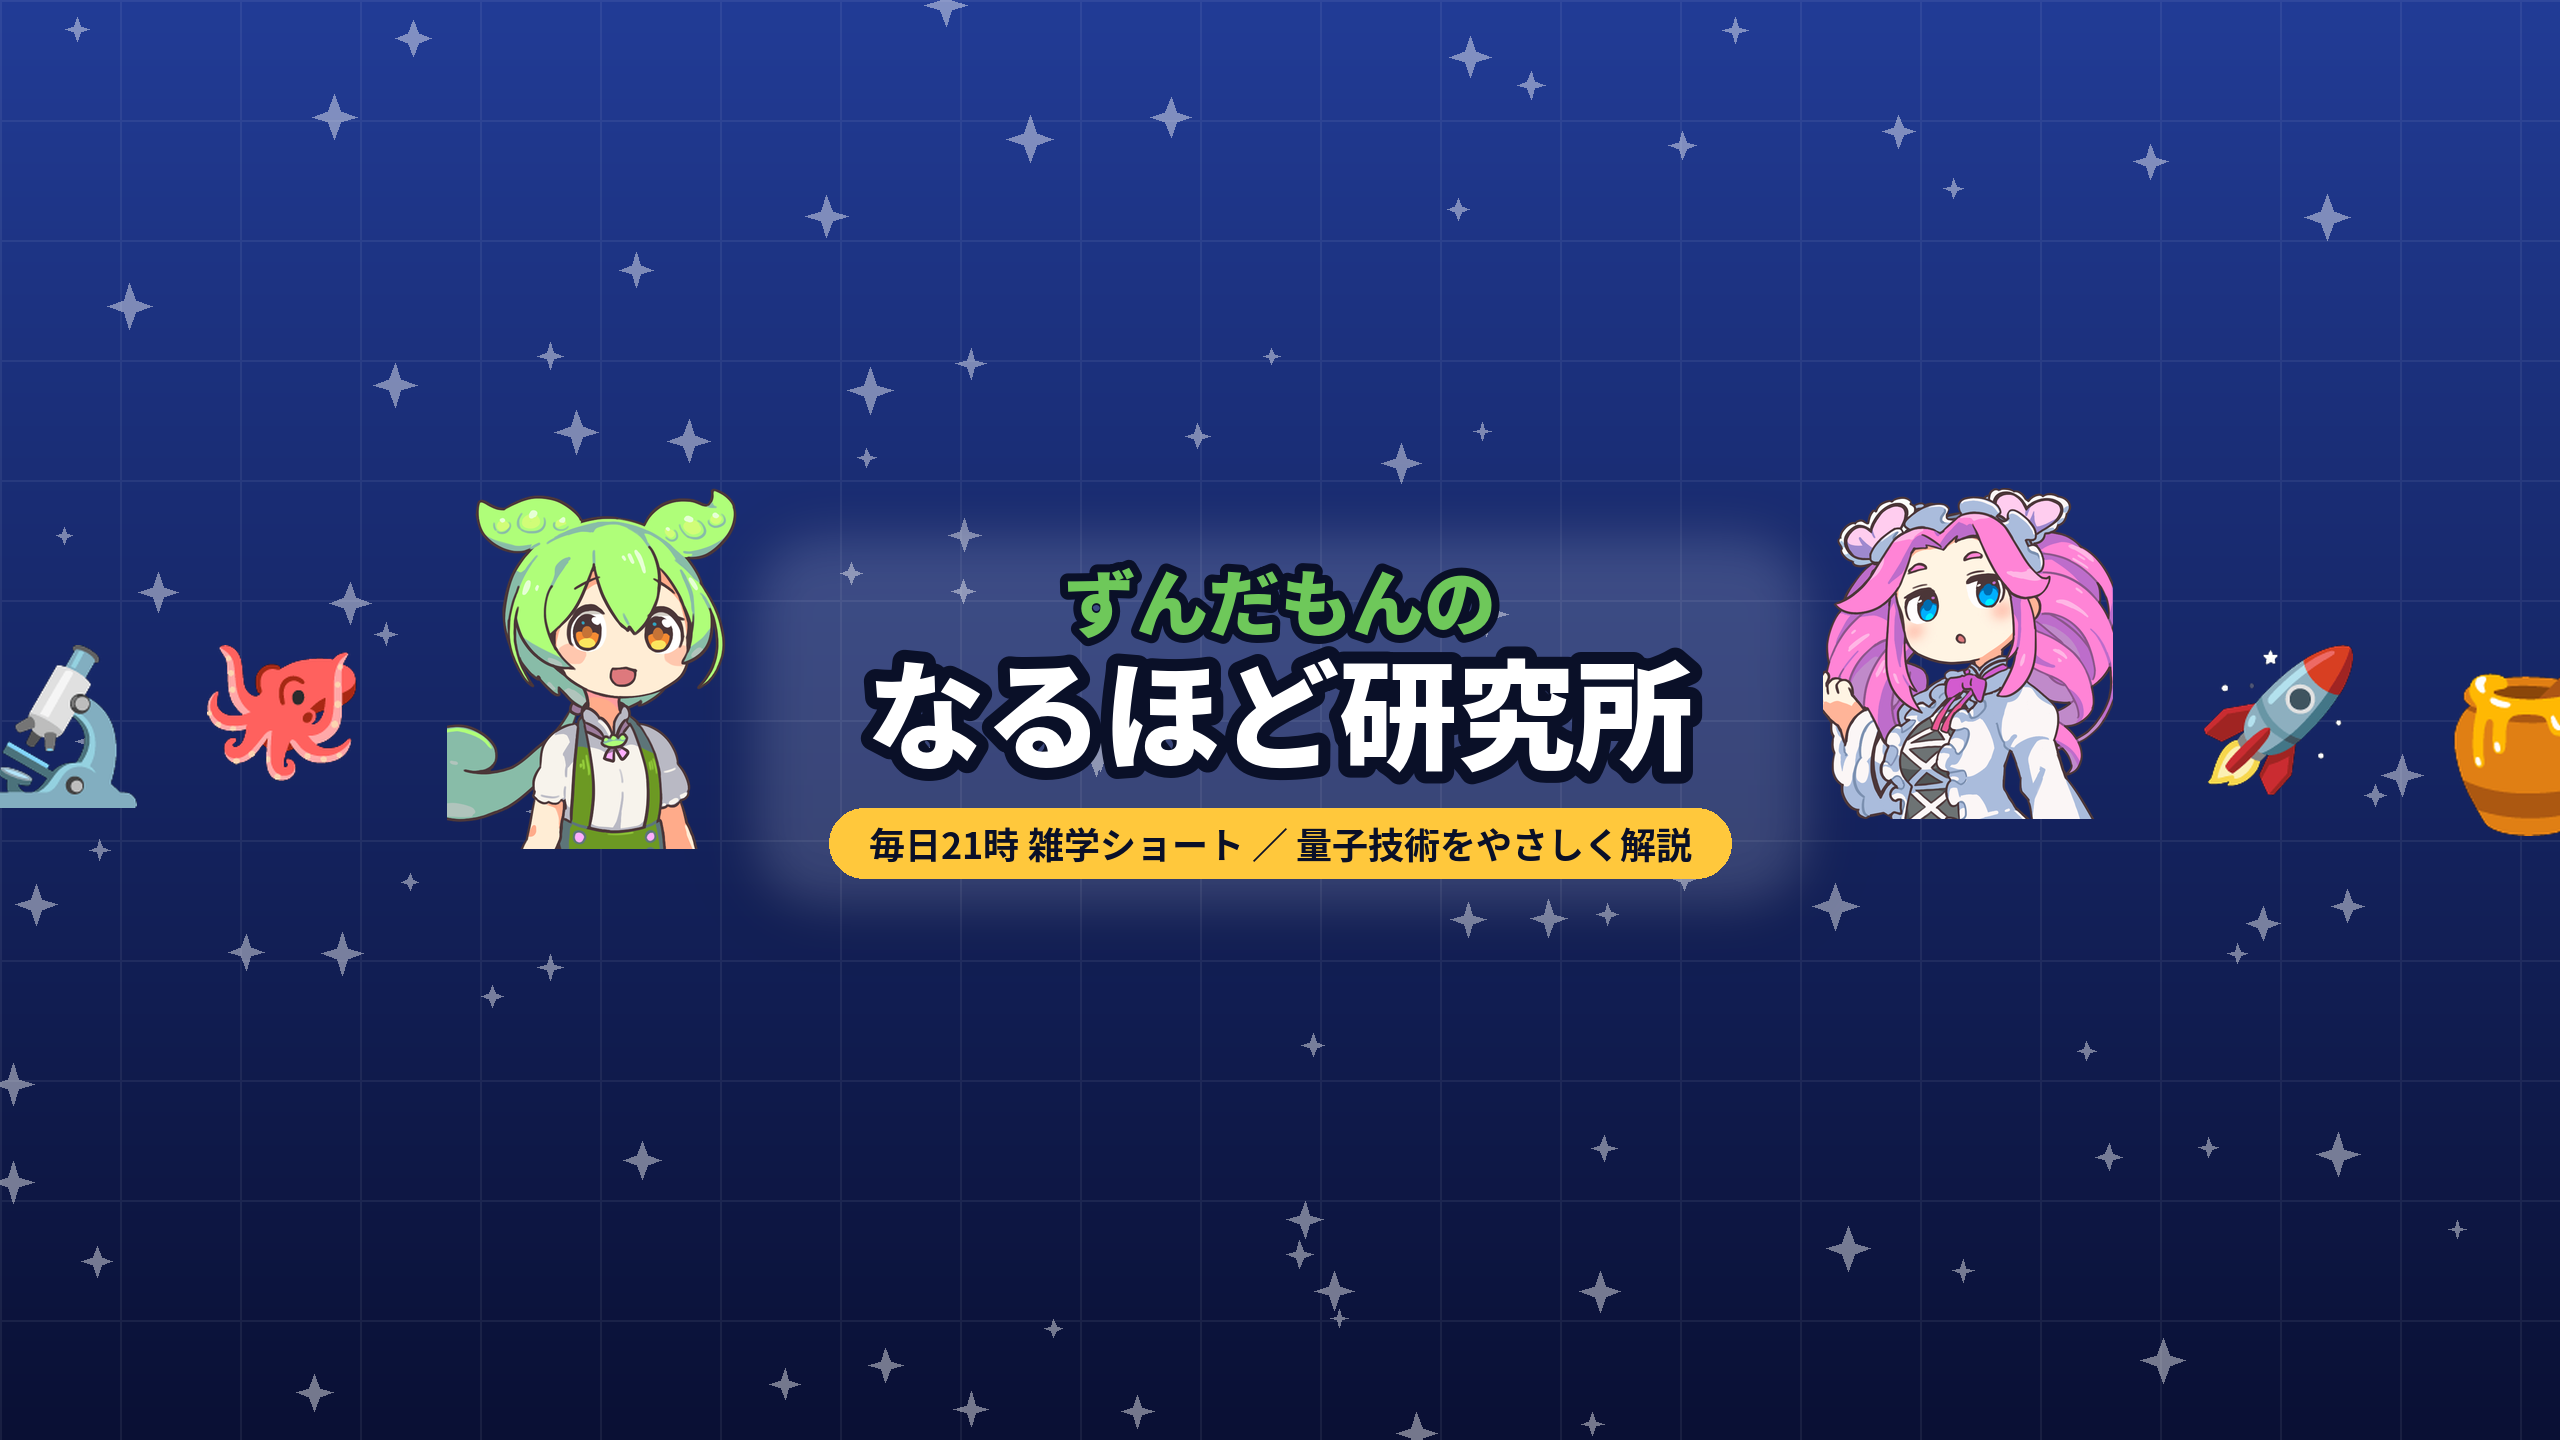
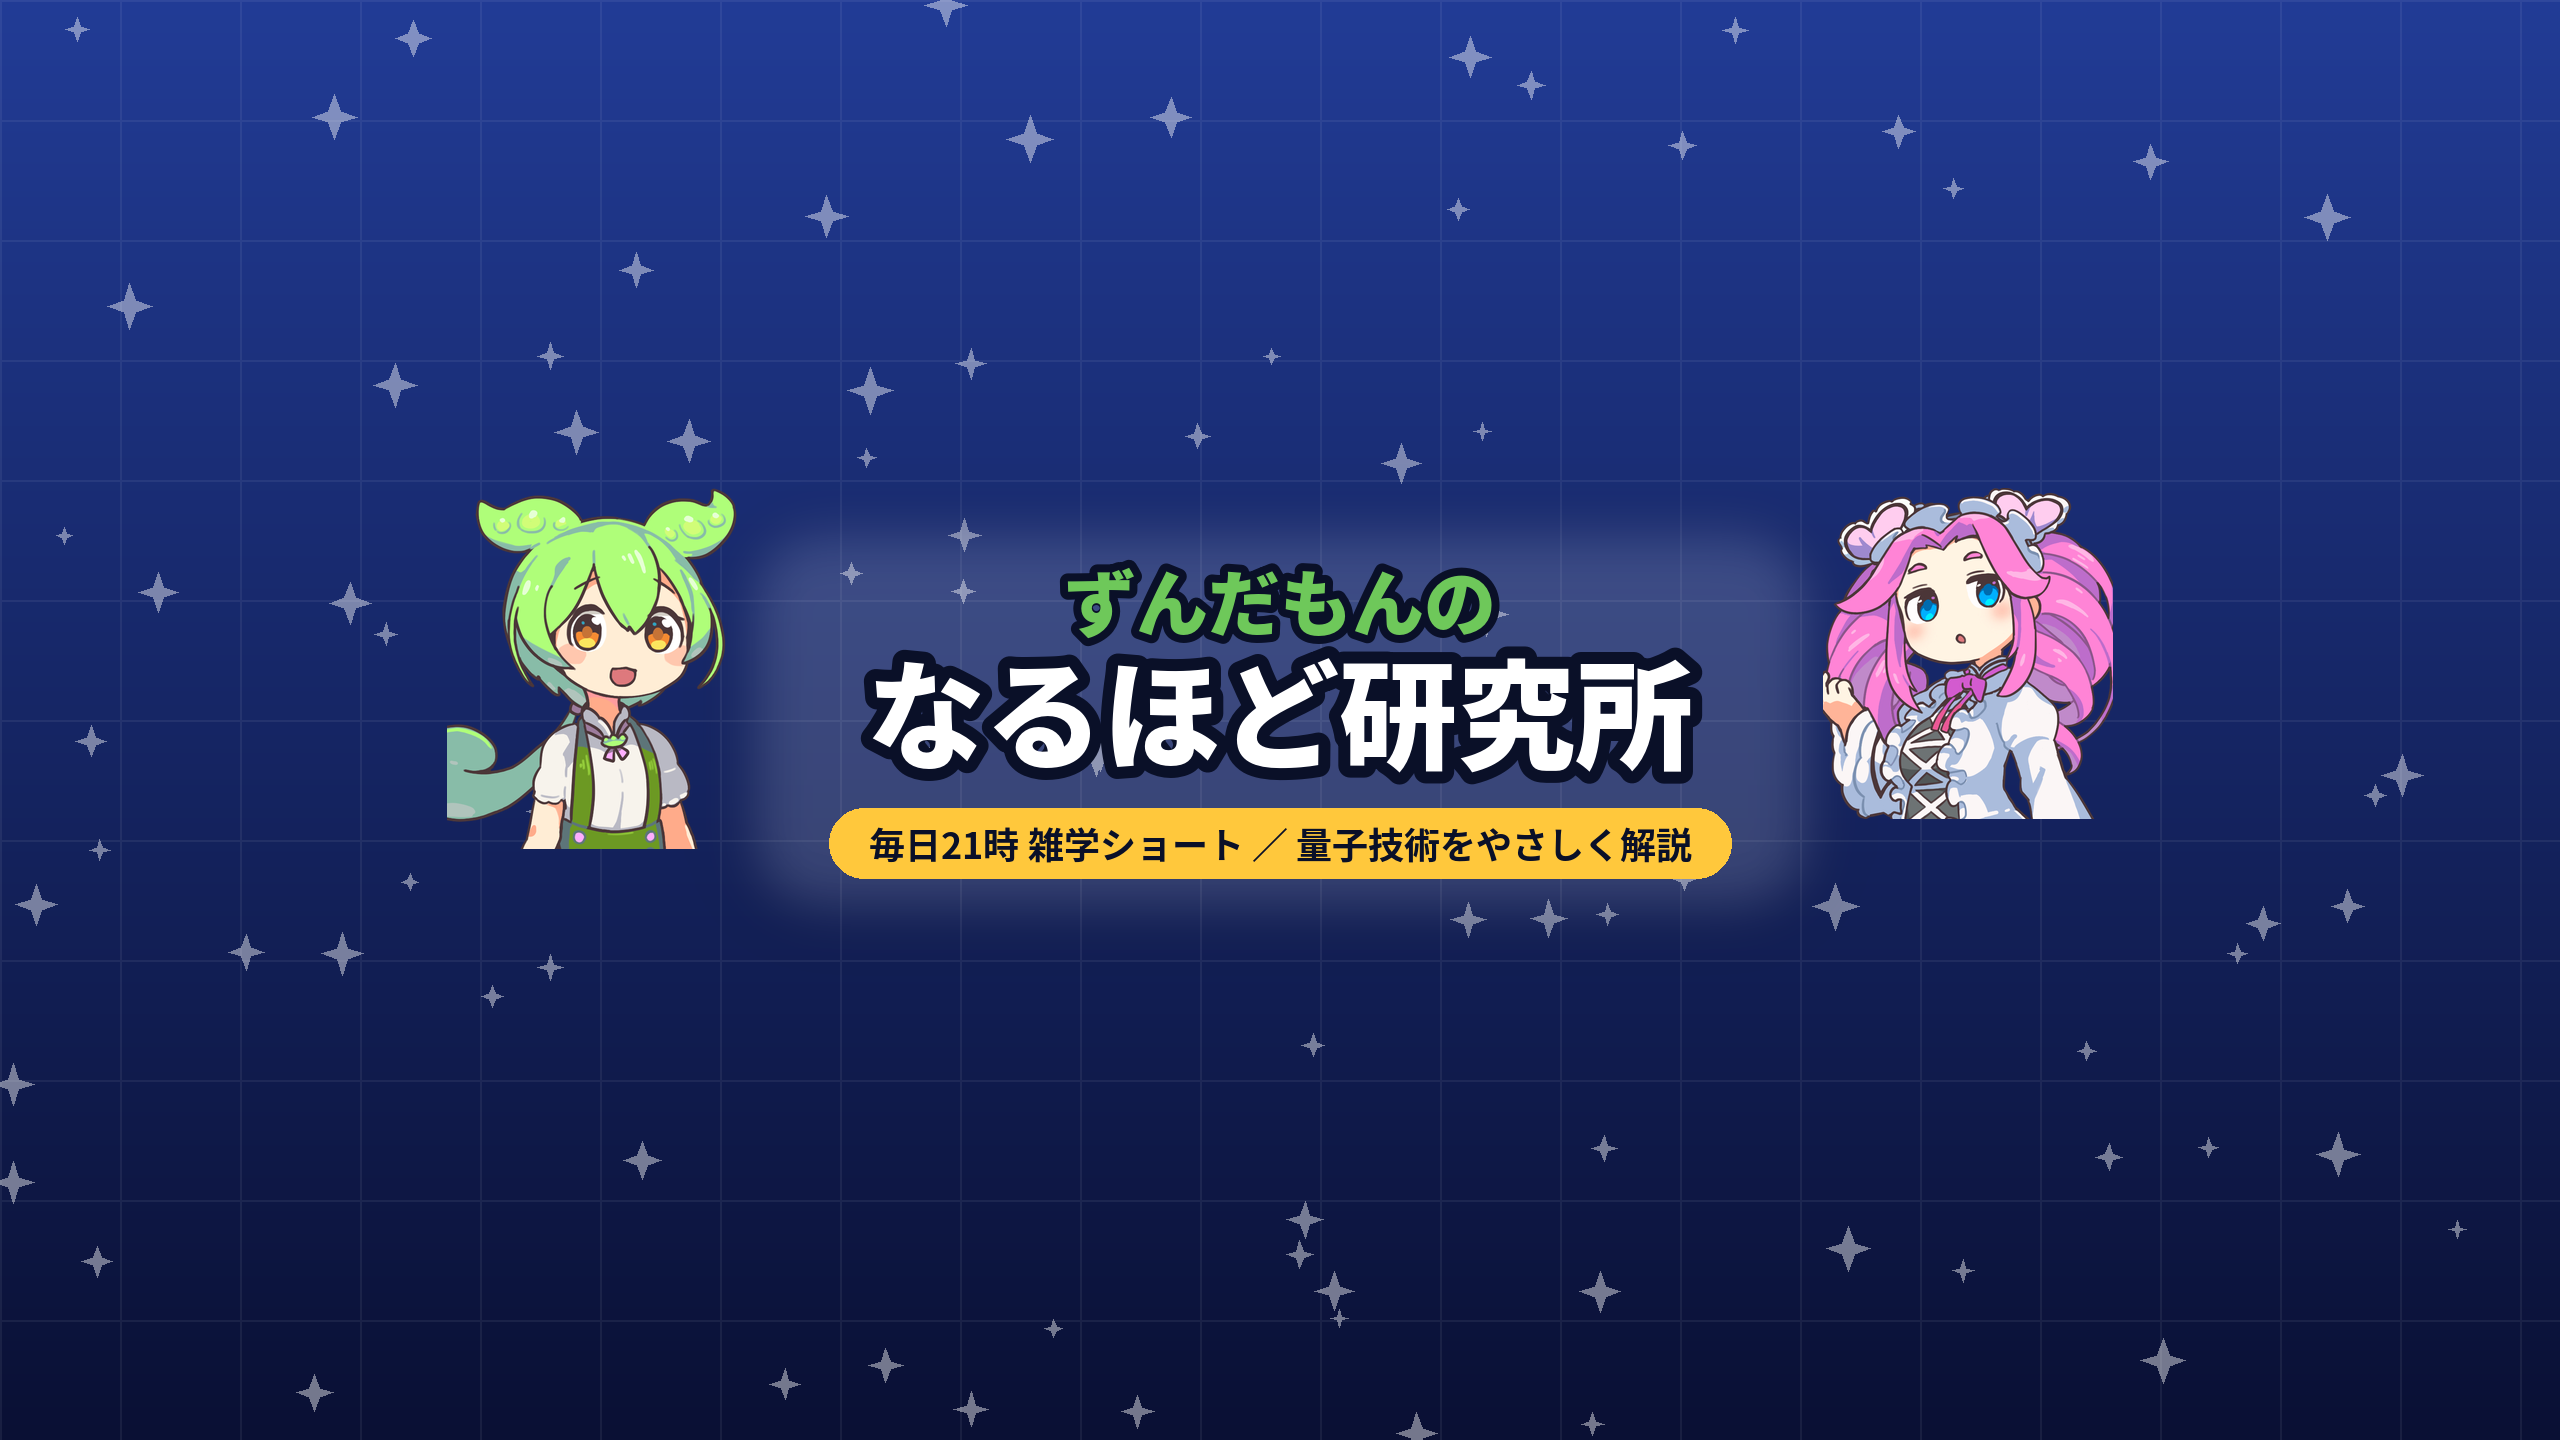
バナーの外側の絵文字（タコ・顕微鏡・はちみつ・ロケット）を外す
Claude-Session: https://claude.ai/code/session_01MzmbYW51uYHDEvUvLbV54E

Changed region(s): [[0.0, 0.4375, 0.1562, 0.5625], [0.8438, 0.4375, 1.0, 0.5938]]

diff --git a/tools/channel_art.py b/tools/channel_art.py
@@ -99,9 +99,6 @@ def banner(path, l1, l2, tagline):
         c = c.resize((290, int(c.height * 290 / c.width)), Image.LANCZOS)
         c = c.crop((0, 0, c.width, min(c.height, 423 + 40)))
         im.alpha_composite(c, (int(x), sy0 - 20))
-    for e, x in (("🐙", sx0 - 300), ("🔬", sx0 - 520), ("🍯", sx0 + 1546 + 400), ("🚀", sx0 + 1546 + 150)):
-        em = T.emoji_img(e, 150)
-        im.alpha_composite(em, (int(x), BH // 2 - 75))
     im.convert("RGB").save(path)
     # スマホで見える範囲に枠を描いた確認用
     chk = im.copy()
